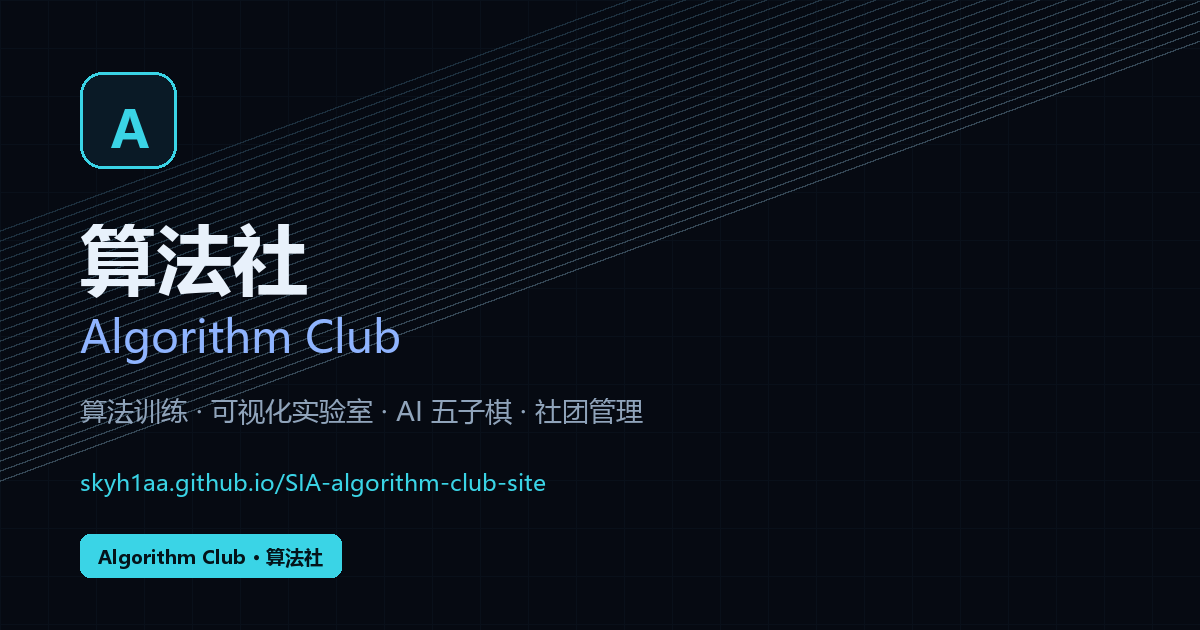
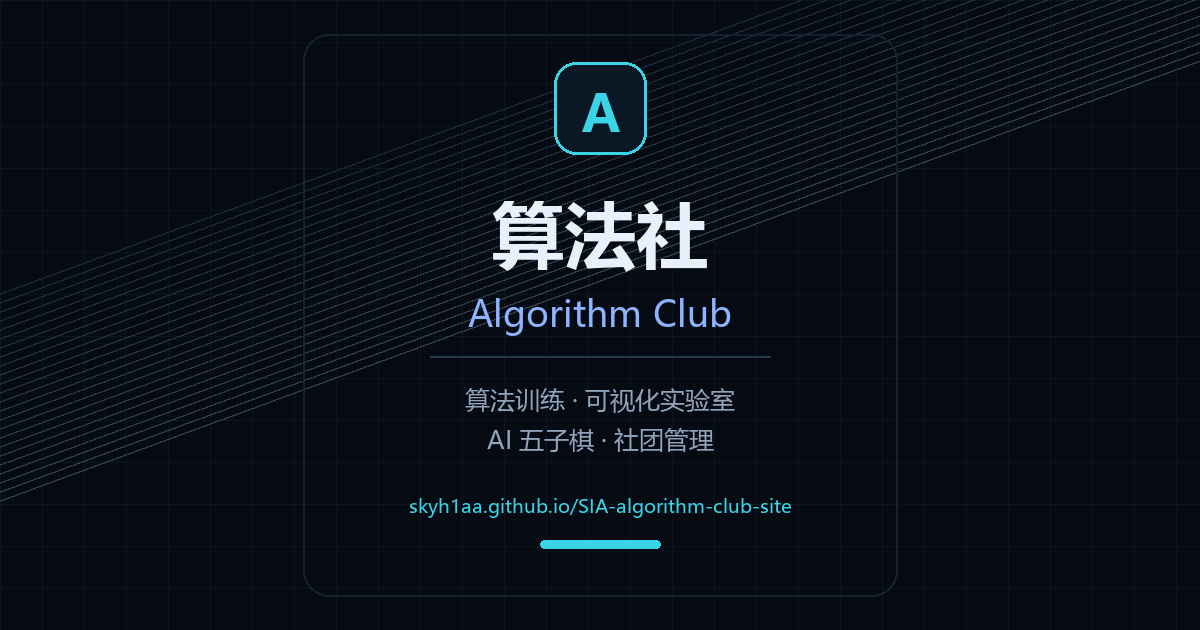
更新

diff --git a/tools/build-og-cover.py b/tools/build-og-cover.py
@@ -1,0 +1,98 @@
+#!/usr/bin/env python3
+"""生成社交分享图 public/assets/og-cover.png（1200x630）。
+
+关键约束：微信/QQ 的链接卡片缩略图是**正方形**，并且按**中心**裁切。
+所以所有文字与 logo 必须落在中心 630x630 的安全区内，左右两侧只放装饰；
+否则分享出去只会看到被裁掉一半的文字（这正是之前的线上问题）。
+
+    python tools/build-og-cover.py
+"""
+from PIL import Image, ImageDraw, ImageFont
+import os
+
+W, H = 1200, 630
+# 微信缩略图是中心正方形裁切，所有内容都要落在这个范围内。
+SAFE = 630
+SAFE_X0 = (W - SAFE) // 2
+SAFE_X1 = SAFE_X0 + SAFE
+CENTER = W // 2
+
+BG = (6, 10, 18)
+GRID = (12, 20, 32)
+ACCENT = (58, 212, 230)
+TEXT = (232, 241, 251)
+TEXT_SOFT = (143, 180, 255)
+MUTED = (144, 164, 187)
+
+
+def font(size, bold=False):
+    candidates = [
+        'C:/Windows/Fonts/msyhbd.ttc' if bold else 'C:/Windows/Fonts/msyh.ttc',
+        'C:/Windows/Fonts/seguisb.ttf' if bold else 'C:/Windows/Fonts/segoeui.ttf',
+        '/usr/share/fonts/truetype/noto/NotoSansCJK-Bold.ttc' if bold else '/usr/share/fonts/truetype/noto/NotoSansCJK-Regular.ttc',
+    ]
+    for path in candidates:
+        if os.path.exists(path):
+            try:
+                return ImageFont.truetype(path, size)
+            except OSError:
+                continue
+    return ImageFont.load_default()
+
+
+def text_width(draw, text, f):
+    box = draw.textbbox((0, 0), text, font=f)
+    return box[2] - box[0]
+
+
+def draw_centered(draw, y, text, f, fill):
+    w = text_width(draw, text, f)
+    draw.text((CENTER - w / 2, y), text, font=f, fill=fill)
+
+
+img = Image.new('RGB', (W, H), BG)
+d = ImageDraw.Draw(img)
+
+# 装饰层：细网格，允许被裁掉。
+for x in range(0, W, 42):
+    d.line([(x, 0), (x, H)], fill=GRID, width=1)
+for y in range(0, H, 42):
+    d.line([(0, y), (W, y)], fill=GRID, width=1)
+
+# 斜向霓虹带，作为背景氛围。
+for i in range(24):
+    shade = max(0, 40 - i)
+    d.line([(0, H - 130 - i * 9), (W, 60 - i * 9)],
+           fill=(8 + shade, 24 + shade, 36 + shade), width=2)
+
+# 中心安全区边框（很淡，裁切后仍可见，作为视觉锚点）。
+d.rounded_rectangle([SAFE_X0 + 18, 34, SAFE_X1 - 18, H - 34],
+                    radius=26, outline=(20, 33, 48), width=2)
+
+# A 徽标
+badge = 92
+badge_top = 62
+d.rounded_rectangle([CENTER - badge / 2, badge_top, CENTER + badge / 2, badge_top + badge],
+                    radius=22, outline=ACCENT, width=3, fill=(9, 24, 36))
+d.text((CENTER - text_width(d, 'A', font(52, True)) / 2, badge_top + 14),
+       'A', font=font(52, True), fill=ACCENT)
+
+# 主标题
+draw_centered(d, 184, '算法社', font(72, True), TEXT)
+draw_centered(d, 288, 'Algorithm Club', font(36), TEXT_SOFT)
+
+# 分隔线
+d.line([(CENTER - 170, 356), (CENTER + 170, 356)], fill=(38, 58, 78), width=2)
+
+# 副标题与地址（都在安全区内）
+draw_centered(d, 382, '算法训练 · 可视化实验室', font(25), MUTED)
+draw_centered(d, 422, 'AI 五子棋 · 社团管理', font(25), MUTED)
+draw_centered(d, 492, 'skyh1aa.github.io/SIA-algorithm-club-site', font(19), ACCENT)
+
+# 底部色条
+d.rounded_rectangle([CENTER - 60, 540, CENTER + 60, 548], radius=4, fill=ACCENT)
+
+os.makedirs('public/assets', exist_ok=True)
+out = 'public/assets/og-cover.png'
+img.save(out, optimize=True)
+print(f'wrote {out} ({os.path.getsize(out)} bytes, {W}x{H}, safe square {SAFE_X0}..{SAFE_X1})')
